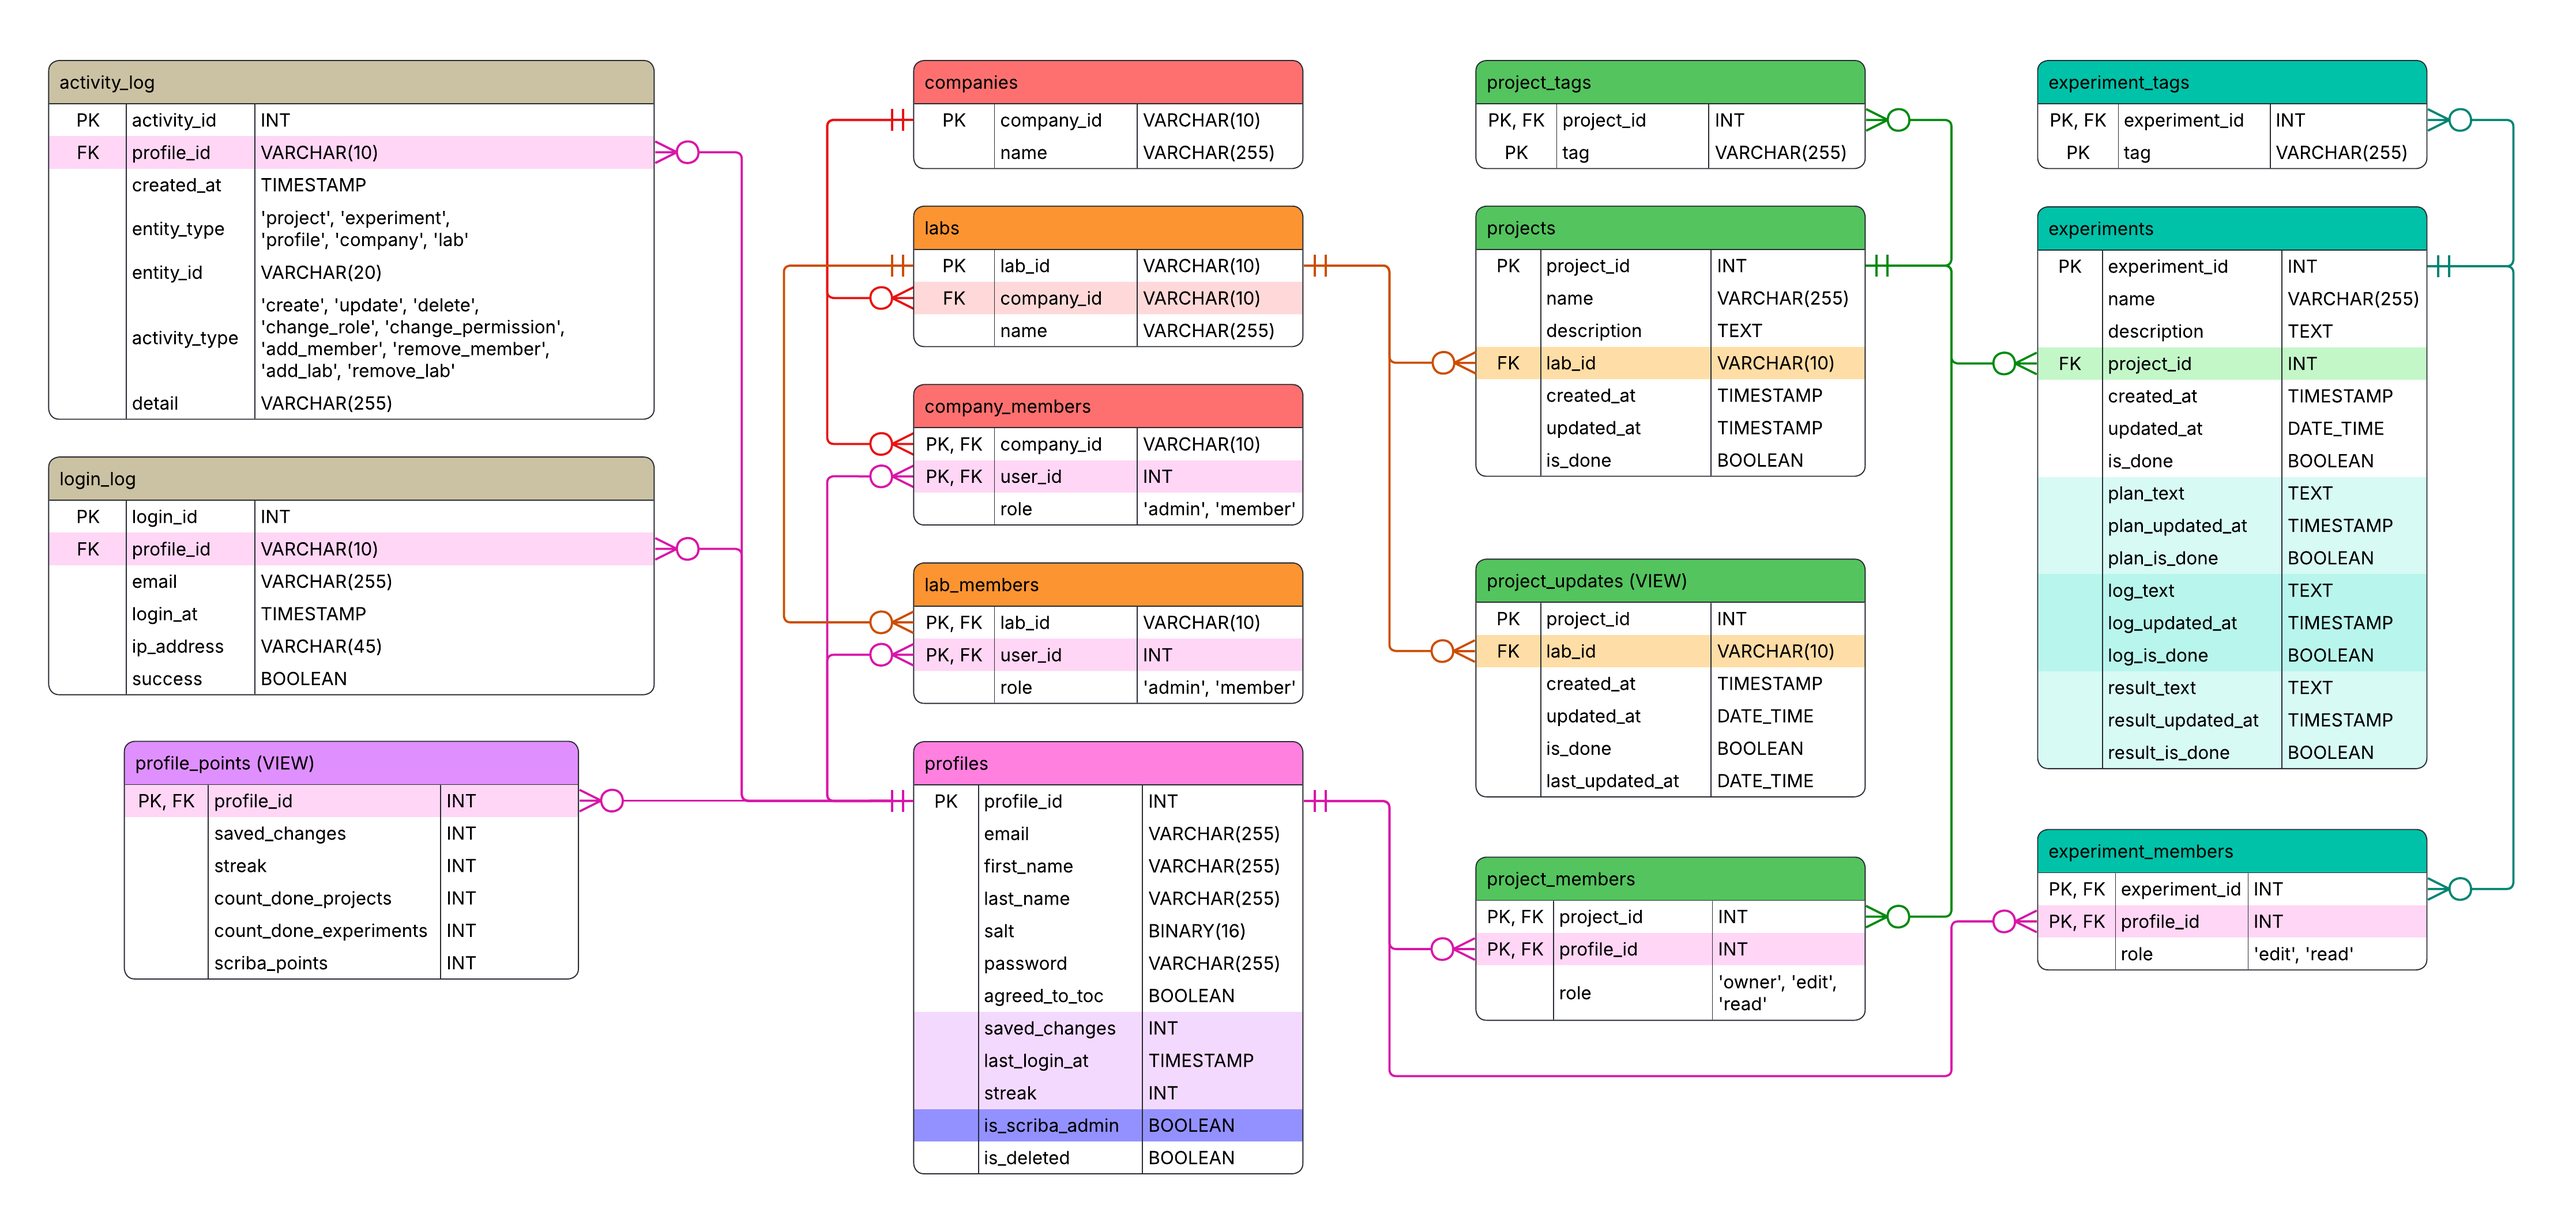
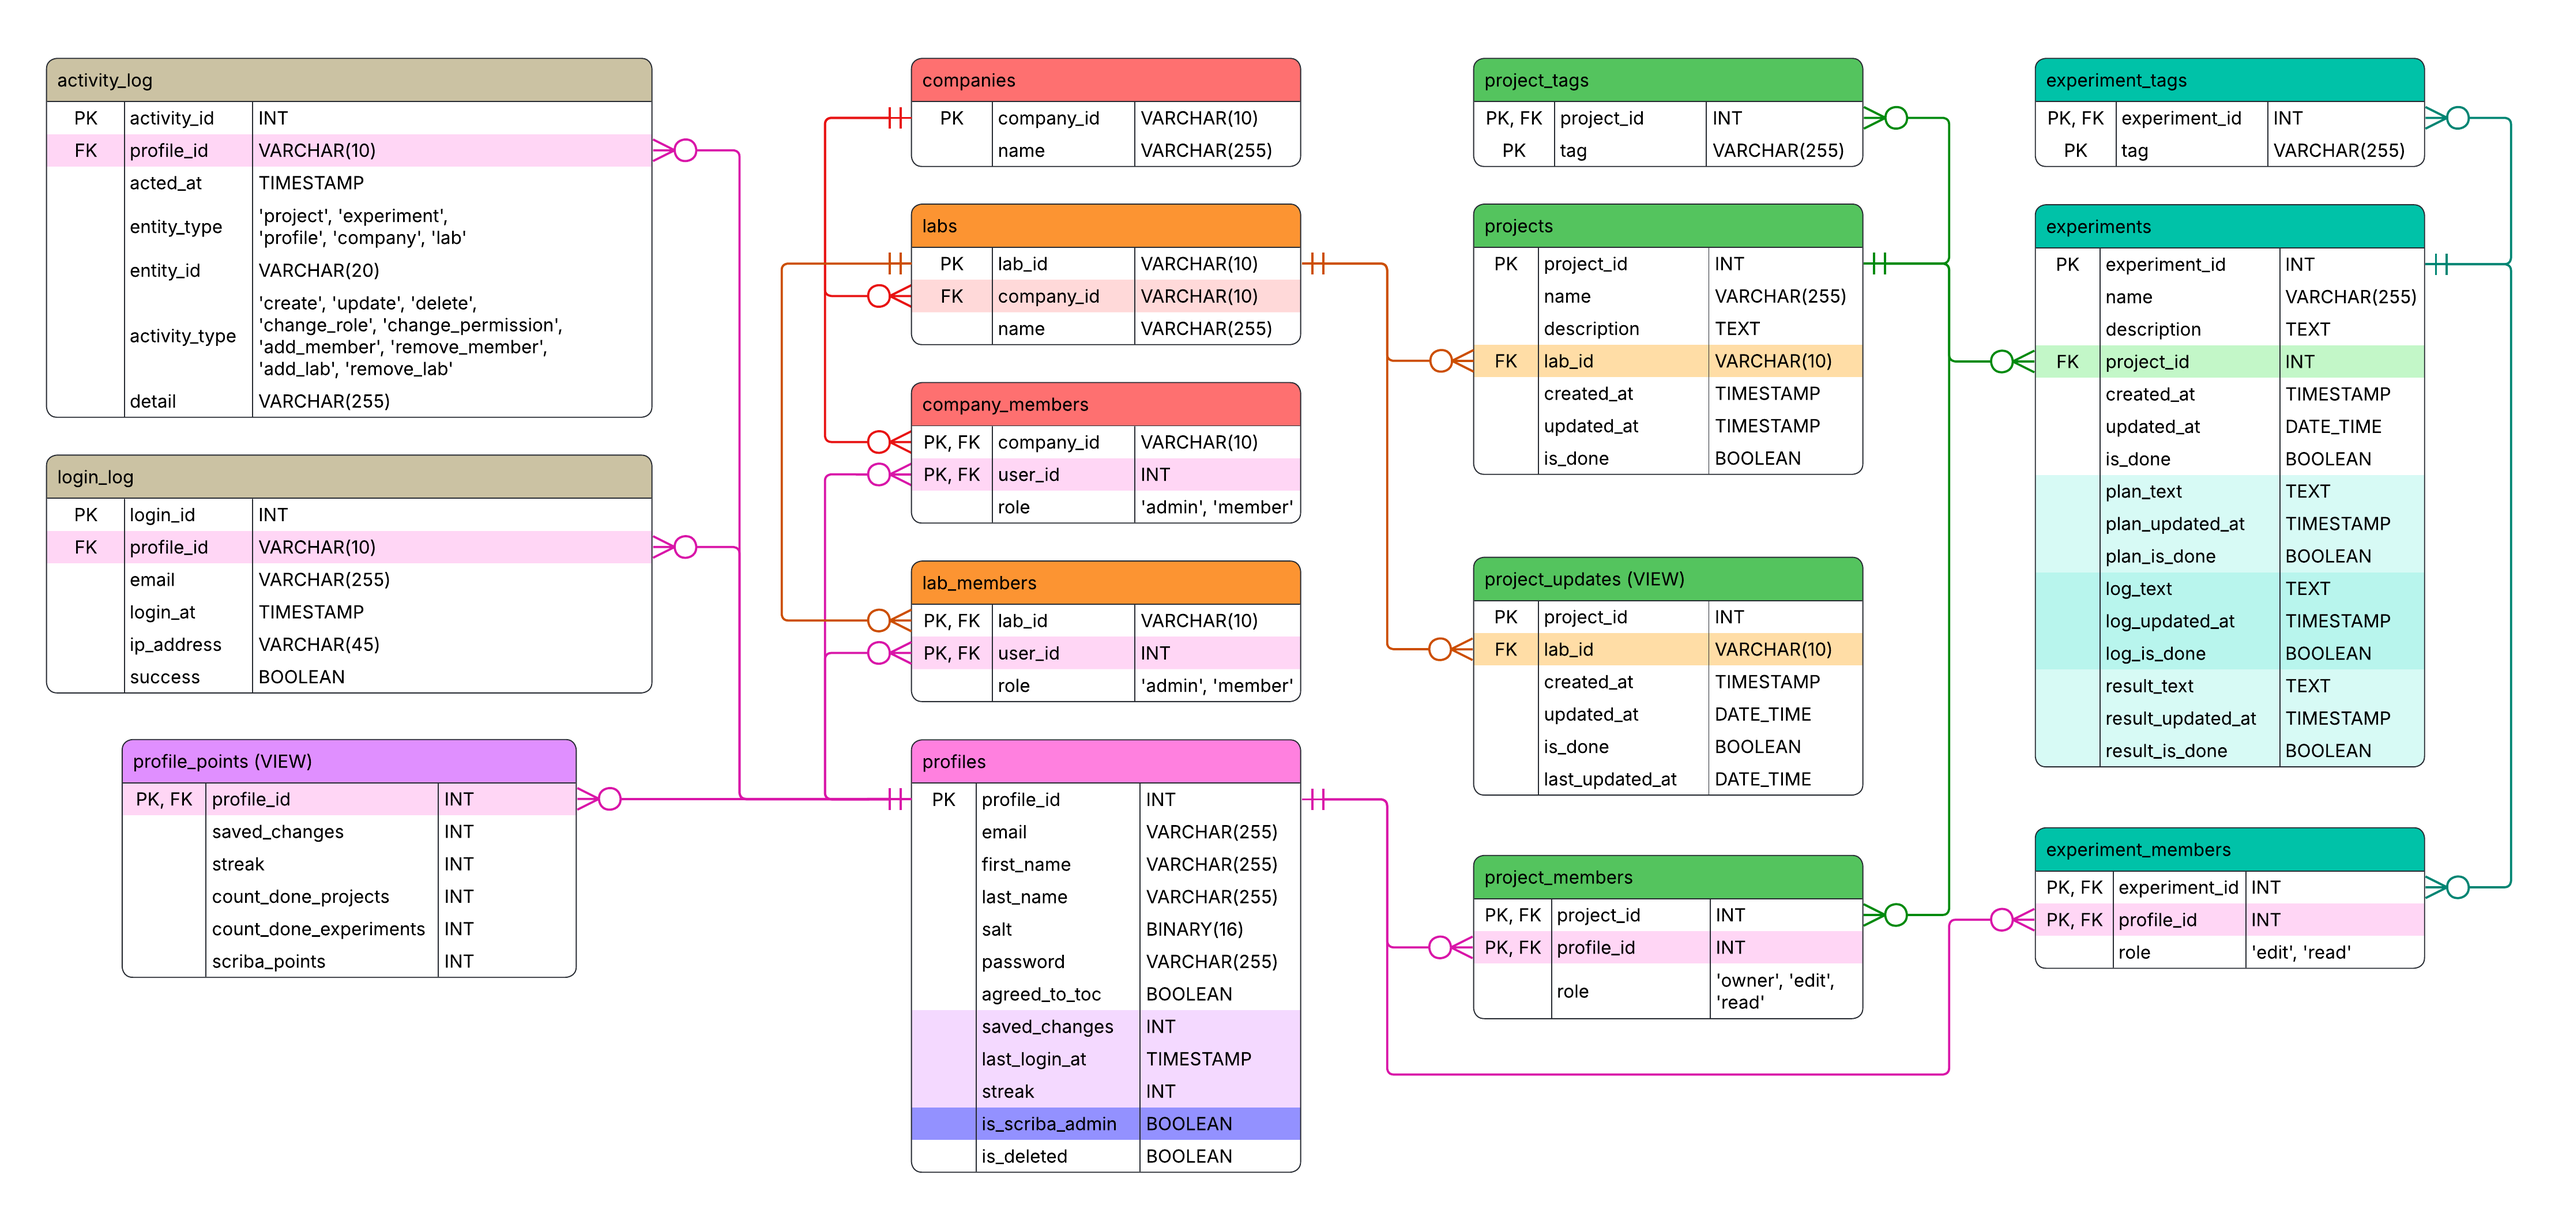
Update activity_log timestamp column naming convention from `created_at` to `acted_at`

diff --git a/ARCHITECTURE.md b/ARCHITECTURE.md
@@ -146,6 +146,9 @@ The schema follows [Database naming standards](https://dev.to/ovid/database-nami
 
 - snake_case everywhere; plural table names, singular column names.
 - Generic column names per table: `name`, `created_at`, `updated_at`, `is_done`.
+- Content tables use `created_at`/`updated_at` (row lifecycle); log tables name
+  the timestamp after the event instead — `login_log.login_at`,
+  `activity_log.acted_at` — since the row's creation *is* the event.
 - FKs are named after the PK they reference (`profile_id` in every table).
 - PKs are auto-increment `INT`, except `company_id`/`lab_id` which are
   prefixed `VARCHAR(10)` (`c1`, `l1`, ...) to avoid collisions.
